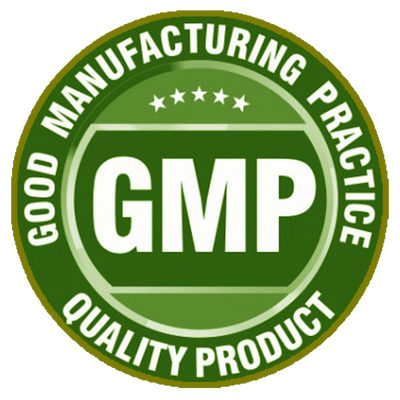
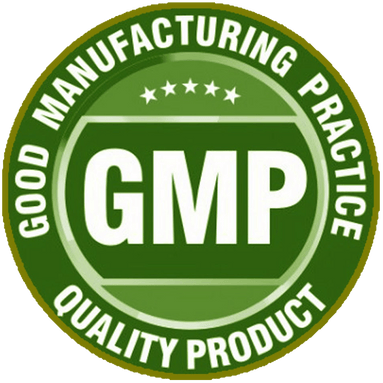
Hero: taller bottle with real label art, trimmed badges, refined type
Reshapes the jar profile (taller body, true neck, compact low-bevel cap),
paints the real logo mark/wordmark onto the label within the visible arc,
right-sizes the capsule fill with headspace, trims transparent padding from
the certification badges, superscripts the headline TM, and clamps the
desktop headline so it never collides with the bottle column.

diff --git a/assets/tamarinse-bottle-scene.js b/assets/tamarinse-bottle-scene.js
@@ -368,49 +368,57 @@ class TamarinseBottleScene extends HTMLElement {
       transparent: true,
     });
 
+    /* Elegant jar silhouette: flat vertical wall → gentle shoulder → straight
+       neck → lip. The straight neck section is what separates "apothecary
+       jar" from "grenade" — never blend shoulder directly into the cap. */
     const profilePoints = [
       [0.0, 0.02],
-      [0.6, 0.02],
-      [0.78, 0.08],
-      [0.85, 0.28],
-      [0.86, 1.5],
-      [0.82, 1.72],
-      [0.64, 1.92],
-      [0.5, 2.02],
-      [0.47, 2.24],
+      [0.72, 0.02],
+      [0.76, 0.1],
+      [0.76, 2.05], // straight body wall — tall vertical section
+      [0.73, 2.2], // shoulder begins, gentle convex curve
+      [0.6, 2.35],
+      [0.44, 2.49], // shoulder ends
+      [0.44, 2.69], // neck — straight vertical section
+      [0.46, 2.73], // tiny lip flare where cap seats
     ];
     const profile = profilePoints.map(([x, y]) => new THREE.Vector2(x, y));
     const glass = new THREE.Mesh(new THREE.LatheGeometry(profile, 72), glassMaterial);
 
-    /* ---- Silver cap: wide band + domed top ---- */
+    /* ---- Silver cap: short, near-cylindrical, ~74% of body width.
+       Straight sides and low height keep it reading as a screw cap on a
+       neck, never a mushroom dome overhanging the jar. ---- */
     const silverMaterial = new THREE.MeshStandardMaterial({
       color: 0xd9dadb,
       metalness: 1,
       roughness: 0.3,
       envMapIntensity: 1.1,
     });
-    const capBand = new THREE.Mesh(new THREE.CylinderGeometry(0.62, 0.63, 0.42, 64), silverMaterial);
-    capBand.position.y = 2.42;
-    const capDome = new THREE.Mesh(new THREE.CylinderGeometry(0.56, 0.62, 0.14, 64), silverMaterial);
-    capDome.position.y = 2.7;
+    const capBand = new THREE.Mesh(new THREE.CylinderGeometry(0.52, 0.53, 0.22, 64), silverMaterial);
+    capBand.position.y = 2.8; /* band bottom overlaps the neck lip — no gap */
+    /* Top plate is near-flush: barely taller or narrower than the band, so
+       there's no visible bevel ring — just a thin closing edge. */
+    const capDome = new THREE.Mesh(new THREE.CylinderGeometry(0.51, 0.52, 0.05, 64), silverMaterial);
+    capDome.position.y = 2.935;
 
     /* ---- Capsules inside (visible above and below the label) ---- */
-    const capsuleGeometry = new THREE.CapsuleGeometry(0.085, 0.2, 4, 10);
+    /* Sized so ~60 capsules plausibly fill the jar: small pills, and the fill
+       stops below the shoulder leaving realistic headspace at the top. */
+    const capsuleGeometry = new THREE.CapsuleGeometry(0.06, 0.15, 4, 10);
     const capsuleMaterial = new THREE.MeshStandardMaterial({
       color: 0xffffff,
       roughness: 0.6,
       metalness: 0,
       envMapIntensity: 0.4,
     });
-    const capsuleCount = 120;
+    const capsuleCount = 260;
     const capsules = new THREE.InstancedMesh(capsuleGeometry, capsuleMaterial, capsuleCount);
     const dummy = new THREE.Object3D();
     const shade = new THREE.Color();
     const tanShades = [0x8f7a48, 0x83703f, 0x9c8752, 0x776437];
     for (let i = 0; i < capsuleCount; i += 1) {
-      /* Random point inside the jar; radius tightens through the shoulder. */
-      const y = 0.14 + Math.random() * 1.72;
-      const maxRadius = y > 1.5 ? Math.max(0.18, 0.66 - (y - 1.5) * 0.9) : 0.66;
+      const y = 0.14 + Math.random() * 1.76; /* tops out at 1.9, below the shoulder */
+      const maxRadius = 0.58;
       const angle = Math.random() * TWO_PI;
       const radius = Math.sqrt(Math.random()) * maxRadius;
       dummy.position.set(Math.cos(angle) * radius, y, Math.sin(angle) * radius);
@@ -431,25 +439,49 @@ class TamarinseBottleScene extends HTMLElement {
       envMapIntensity: 0.35,
     });
     const label = new THREE.Mesh(
-      new THREE.CylinderGeometry(0.875, 0.875, 1.16, 72, 1, true),
+      new THREE.CylinderGeometry(0.775, 0.775, 1.25, 72, 1, true),
       labelMaterial
     );
-    label.position.y = 0.94;
+    label.position.y = 1.08;
     /* CylinderGeometry's UV seam (u=0) sits at +Z; the canvas art is centered
        at u=0.5, so half a turn brings it to face the camera. */
     label.rotation.y = Math.PI;
 
     group.add(glass, capBand, capDome, capsules, label);
-    group.position.y = -1.35; /* centers the ~2.7-unit jar on the origin */
+    group.position.y = -1.48; /* centers the ~2.96-unit jar on the origin */
     return group;
   }
 
-  /* Label art matched to the product photo: sage field, tamarind mark,
-     TAMARINSE wordmark, positioning line, capsule count. */
+  /* Label art matched to the product photo: sage field, real Tamarinse logo
+     (mark + wordmark), positioning line, capsule count. The logo bitmap
+     (data-logo URL) decodes async, so the label first paints with procedural
+     stand-in art and repaints the moment the real art is ready. */
   #drawLabel(THREE) {
     const canvas = document.createElement('canvas');
     canvas.width = 2048;
     canvas.height = 512;
+    this.#paintLabel(canvas, null);
+
+    const texture = new THREE.CanvasTexture(canvas);
+    texture.colorSpace = THREE.SRGBColorSpace;
+    texture.anisotropy = 4;
+
+    const logoUrl = this.getAttribute('data-logo');
+    if (logoUrl) {
+      const logo = new Image();
+      logo.onload = () => {
+        if (!this.#renderer) return; /* scene already torn down */
+        this.#paintLabel(canvas, logo);
+        texture.needsUpdate = true;
+        this.#renderFrame();
+      };
+      logo.src = logoUrl;
+    }
+
+    return texture;
+  }
+
+  #paintLabel(canvas, logo) {
     const ctx = canvas.getContext('2d');
 
     ctx.fillStyle = '#d9e5df';
@@ -458,42 +490,58 @@ class TamarinseBottleScene extends HTMLElement {
     const cx = canvas.width / 2;
     ctx.textAlign = 'center';
 
-    /* Tamarind pod mark: arc of dark seeds + a leaf stroke */
-    ctx.fillStyle = '#20261f';
-    const seeds = [
-      [-30, 8, 13],
-      [-8, 18, 14],
-      [16, 14, 13],
-      [34, 0, 11],
-    ];
-    for (const [dx, dy, r] of seeds) {
-      ctx.beginPath();
-      ctx.arc(cx + dx, 88 + dy, r, 0, TWO_PI);
-      ctx.fill();
-    }
-    ctx.strokeStyle = '#20261f';
-    ctx.lineWidth = 5;
-    ctx.beginPath();
-    ctx.arc(cx + 14, 60, 44, Math.PI * 0.9, Math.PI * 1.6);
-    ctx.stroke();
-    ctx.beginPath();
-    ctx.ellipse(cx + 52, 42, 16, 7, -0.7, 0, TWO_PI);
-    ctx.stroke();
+    if (logo) {
+      /* Real logo asset (893×290): tamarind mark occupies x 0–281,
+         wordmark ink occupies (321, 127) to (893, 188). Drawn as two crops
+         so they can be stacked vertically like the product label.
 
-    /* Wordmark */
-    ctx.fillStyle = '#171c19';
-    ctx.font = '500 62px "Helvetica Neue", Arial, sans-serif';
-    ctx.save();
-    ctx.letterSpacing = '20px';
-    ctx.fillText('TAMARINSE', cx + 10, 230);
-    ctx.restore();
+         The 2048px texture wraps the full 360° label, so only ~±40° (~455px)
+         faces the camera without wrapping out of view around the curve —
+         all art must stay inside that band or its edges get clipped. */
+      const markHeight = 112;
+      const markWidth = (281 / 290) * markHeight;
+      ctx.drawImage(logo, 0, 0, 281, 290, cx - markWidth / 2, 30, markWidth, markHeight);
+
+      const wordWidth = 440;
+      const wordHeight = (61 / 572) * wordWidth;
+      ctx.drawImage(logo, 321, 127, 572, 61, cx - wordWidth / 2, 192, wordWidth, wordHeight);
+    } else {
+      /* Procedural stand-in: seeds arc + typeset wordmark */
+      ctx.fillStyle = '#20261f';
+      const seeds = [
+        [-30, 8, 13],
+        [-8, 18, 14],
+        [16, 14, 13],
+        [34, 0, 11],
+      ];
+      for (const [dx, dy, r] of seeds) {
+        ctx.beginPath();
+        ctx.arc(cx + dx, 88 + dy, r, 0, TWO_PI);
+        ctx.fill();
+      }
+      ctx.strokeStyle = '#20261f';
+      ctx.lineWidth = 5;
+      ctx.beginPath();
+      ctx.arc(cx + 14, 60, 44, Math.PI * 0.9, Math.PI * 1.6);
+      ctx.stroke();
+      ctx.beginPath();
+      ctx.ellipse(cx + 52, 42, 16, 7, -0.7, 0, TWO_PI);
+      ctx.stroke();
+
+      ctx.fillStyle = '#171c19';
+      ctx.font = '500 48px "Helvetica Neue", Arial, sans-serif';
+      ctx.save();
+      ctx.letterSpacing = '14px';
+      ctx.fillText('TAMARINSE', cx + 7, 226);
+      ctx.restore();
+    }
 
     /* Positioning line */
     ctx.fillStyle = 'rgba(23, 28, 25, 0.78)';
-    ctx.font = '600 24px "Helvetica Neue", Arial, sans-serif';
+    ctx.font = '600 21px "Helvetica Neue", Arial, sans-serif';
     ctx.save();
     ctx.letterSpacing = '3px';
-    ctx.fillText('ENVIRONMENTAL DEFENSE &', cx, 296);
+    ctx.fillText('ENVIRONMENTAL DEFENSE &', cx, 298);
     ctx.fillText('DETOX PATHWAY SUPPORT†', cx, 330);
     ctx.restore();
 
@@ -501,21 +549,16 @@ class TamarinseBottleScene extends HTMLElement {
     ctx.strokeStyle = 'rgba(23, 28, 25, 0.25)';
     ctx.lineWidth = 2;
     ctx.beginPath();
-    ctx.moveTo(cx - 120, 375);
-    ctx.lineTo(cx + 120, 375);
+    ctx.moveTo(cx - 110, 372);
+    ctx.lineTo(cx + 110, 372);
     ctx.stroke();
 
     ctx.fillStyle = 'rgba(23, 28, 25, 0.65)';
-    ctx.font = '500 22px "Helvetica Neue", Arial, sans-serif';
+    ctx.font = '500 18px "Helvetica Neue", Arial, sans-serif';
     ctx.save();
-    ctx.letterSpacing = '4px';
-    ctx.fillText('60 CAPSULES — DIETARY SUPPLEMENT', cx, 424);
+    ctx.letterSpacing = '2.5px';
+    ctx.fillText('60 CAPSULES — DIETARY SUPPLEMENT', cx, 420);
     ctx.restore();
-
-    const texture = new THREE.CanvasTexture(canvas);
-    texture.colorSpace = THREE.SRGBColorSpace;
-    texture.anisotropy = 4;
-    return texture;
   }
 
   #bottlePeriodSeconds() {